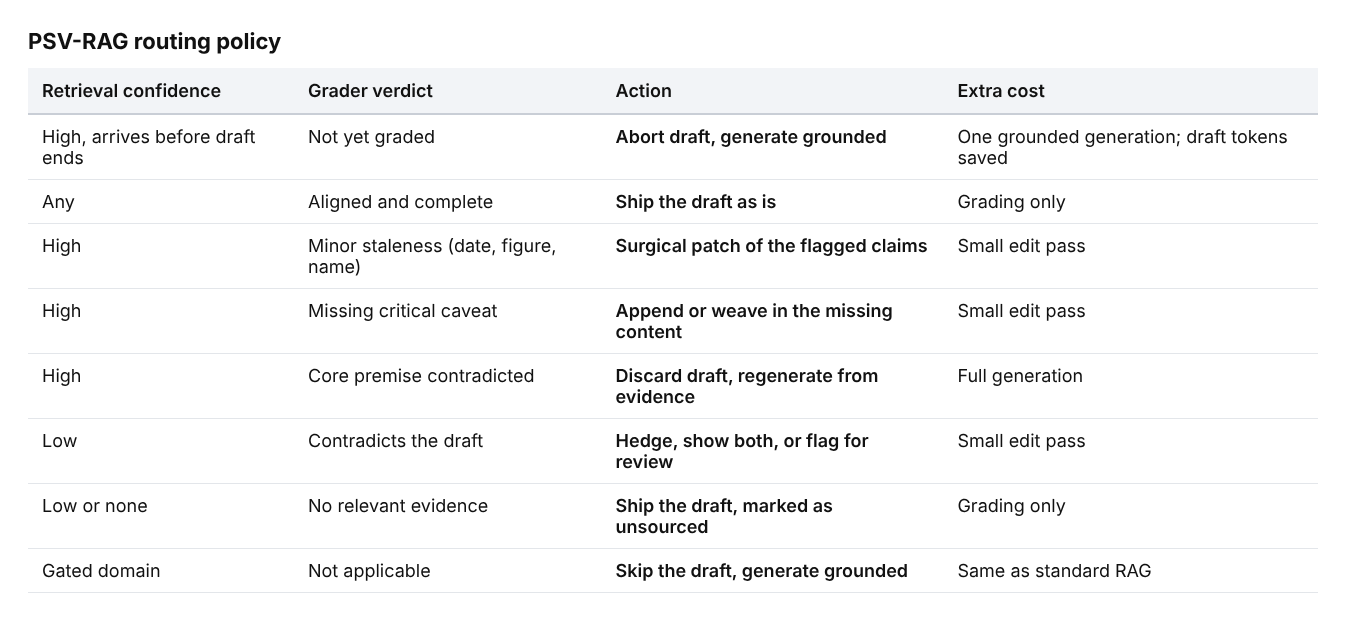
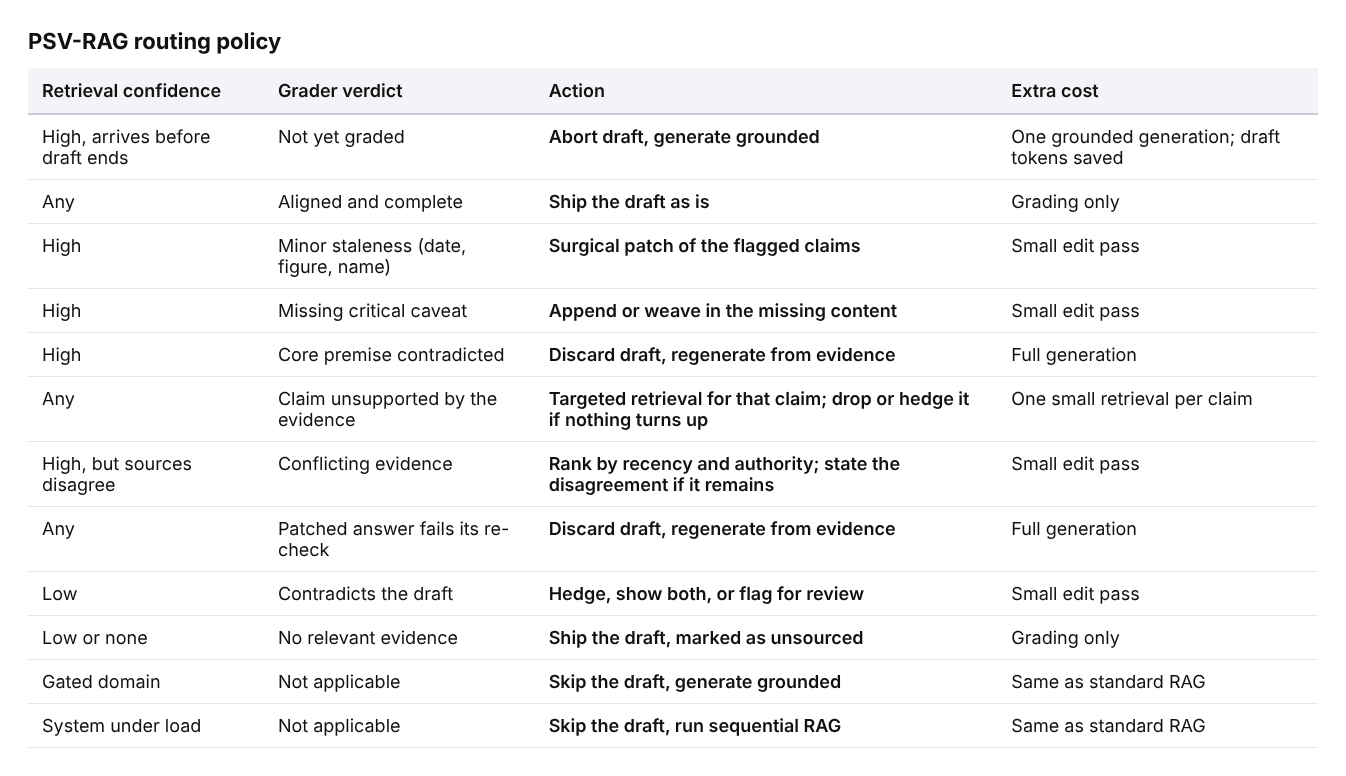
Extend routing policy: unsupported claims, source conflicts, patch re-checks, load

diff --git a/README.md b/README.md
@@ -48,9 +48,13 @@ The maximum saving is the retrieval time, and grading costs something on every r
 | High | Minor staleness | Surgical patch |
 | High | Missing critical caveat | Add the missing content |
 | High | Core premise contradicted | Discard and regenerate |
+| Any | Claim unsupported by the evidence | Targeted retrieval; drop or hedge if nothing turns up |
+| High, but sources disagree | Conflicting evidence | Rank by recency and authority; state the disagreement |
+| Any | Patched answer fails its re-check | Discard and regenerate |
 | Low | Contradicts draft | Hedge, show both, or flag for review |
 | Low or none | No relevant evidence | Ship draft, marked unsourced |
 | Gated domain | — | Skip the draft, generate grounded |
+| System under load | — | Skip the draft, run sequential RAG |
 
 ## How it differs from related work
 
